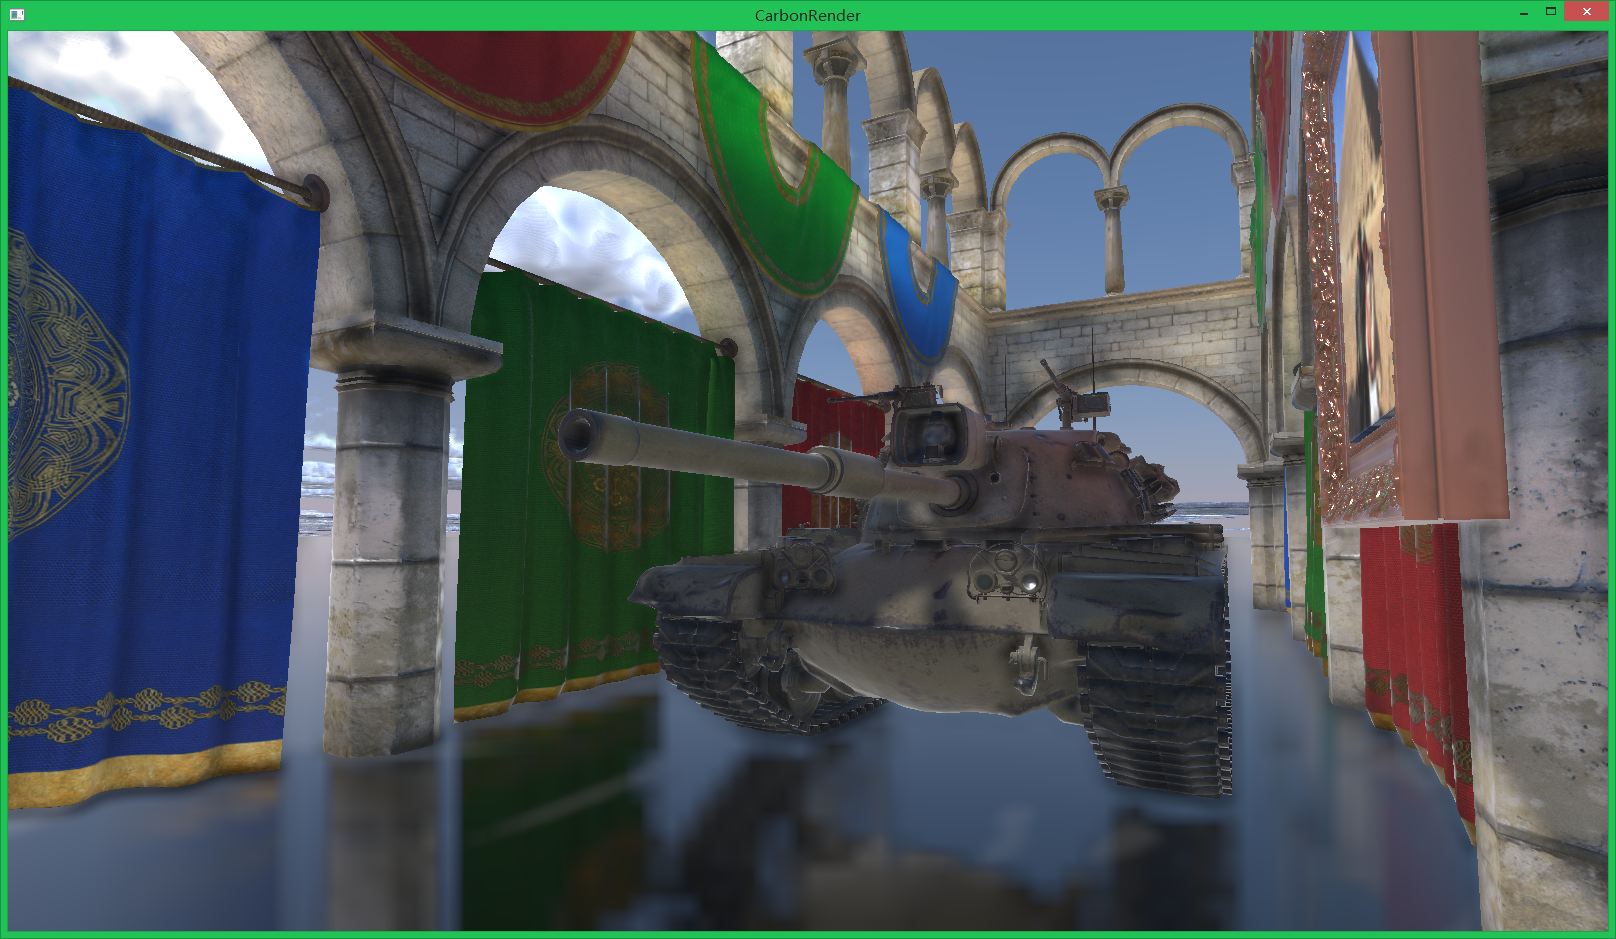
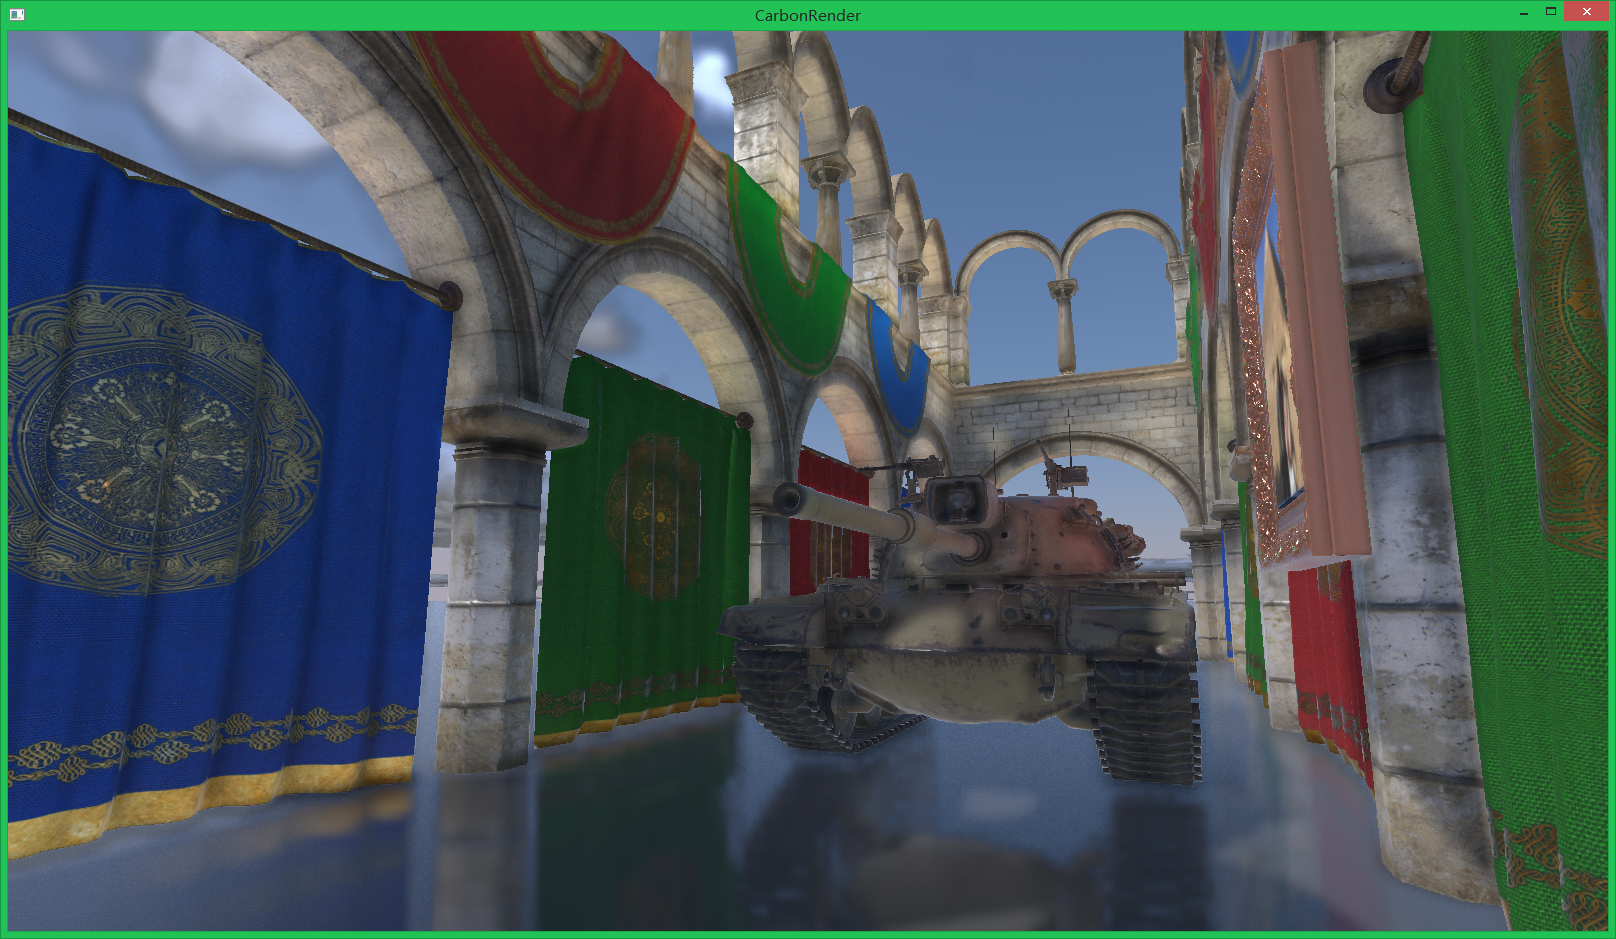
1.fix density sampling error in volumetric cloud 2.use cone tracing to calculate cube in PBR

diff --git a/CarbonRender/Src/CRLightPass.cpp b/CarbonRender/Src/CRLightPass.cpp
@@ -51,14 +51,11 @@ void LightPass::Render(PassOutput * input)
 	location = glGetUniformLocation(shaderProgram, "cubeMap");
 	glUniform1i(location, input->cout);
 	
-	float4 zColor = WeatherSystem::Instance()->GetSkyUpColor();
-	float4 sColor = WeatherSystem::Instance()->GetSunColor();
+	float4 sColor = WeatherSystem::Instance()->GetSunColor() * 3.0f;
 	float3 wsSunPos = WeatherSystem::Instance()->GetWsSunPos();
 	float3 wsCamPos = CameraManager::Instance()->GetCurrentCamera()->GetPosition();
-	location = glGetUniformLocation(shaderProgram, "zenithColor");
-	glUniform4f(location, zColor.x, zColor.y, zColor.z, zColor.w);
 	location = glGetUniformLocation(shaderProgram, "sunColor");
-	glUniform4f(location, sColor.x, sColor.y, sColor.z, sColor.w);
+	glUniform3f(location, sColor.x, sColor.y, sColor.z);
 	location = glGetUniformLocation(shaderProgram, "wsSunPos");
 	glUniform3f(location, wsSunPos.x, wsSunPos.y, wsSunPos.z);
 	location = glGetUniformLocation(shaderProgram, "wsCamPos");

diff --git a/CarbonRender/Src/CRWeatherSystem.cpp b/CarbonRender/Src/CRWeatherSystem.cpp
@@ -27,7 +27,7 @@ void WeatherSystem::Init()
 	hour = 12.0f;
 	turbidity = 2.0f;
 	exposure = 30.0f;
-	timeSpeed = 10.0f;
+	timeSpeed = 15.0f;
 	lightR = 1000.0f;
 	windDir = float4(0.5f, 0.0f, 1.0f, 10.0f * timeSpeed);
 	cloudBias = float3(0.0f);
@@ -103,7 +103,7 @@ float4 WeatherSystem::GetWsSunPos()
 float4 WeatherSystem::GetSunColor()
 {
 	if (wsSunPos.y <= 0.0f)
-		return float4(0.0f, 0.0f, 0.0f, 0.0f);
+		return float4(0.002f, 0.002f, 0.002f, 0.002f);
 
 	float3 up(0.0f, 1.0f, 0.0f);
 
@@ -124,11 +124,14 @@ float4 WeatherSystem::GetSunColor()
 
 	skyColor = xyY2RGB(xyY);
 
-	return Min(skyColor * 5.0f, 1.0f);
+	return skyColor;
 }
 
 float4 WeatherSystem::GetSkyUpColor()
 {
+	if (wsSunPos.y <= 0.0f)
+		return float4(0.002f, 0.002f, 0.002f, 0.002f);
+
 	float3 vP(0.0f, 1.0f, 0.0f);
 	float3 vS = wsSunPos.normalize();
 	float vSovP = Dot(vS, vP);

diff --git a/CarbonRender/Src/CRGIPass.cpp b/CarbonRender/Src/CRGIPass.cpp
@@ -34,6 +34,7 @@ void GIPass::Render(PassOutput * input)
 	}
 
 	ShaderManager::Instance()->UseShader(shaderProgram);
+	float4 sunColor = WeatherSystem::Instance()->GetSunColor() * 50.0f;
 	GLint location = glGetUniformLocation(shaderProgram, "pMap");
 	glUniform1i(location, 1);
 	location = glGetUniformLocation(shaderProgram, "nMap");
@@ -52,6 +53,8 @@ void GIPass::Render(PassOutput * input)
 
 	location = glGetUniformLocation(shaderProgram, "stepUnit");
 	glUniform2f(location, 1.0f / size.w, 1.0f / size.h);
+	location = glGetUniformLocation(shaderProgram, "sunColor");
+	glUniform3f(location, sunColor.x, sunColor.y, sunColor.z);
 
 	DrawFullScreenQuad();
 

diff --git a/CarbonRender/Src/CRSkyRenderPass.cpp b/CarbonRender/Src/CRSkyRenderPass.cpp
@@ -7,8 +7,8 @@ void SkyRenderPass::Init()
 	sphere.GetReady4Rending();
 	sphere.SetScale(float3(10000.0f, 5000.0f, 10000.0f));
 	sphere.SetPosition(float3(0.0f));
-	sphere.SetRotation(float3(45.0f, 90.0f, 45.0f));
-	milkwayTex = 0;// TextureManager::Instance()->LoadTexture("Milkway");
+	sphere.SetRotation(float3(45.0f, 135.0f, 0.0f));
+	milkwayTex = TextureManager::Instance()->LoadTexture("Milkway");
 }
 
 void SkyRenderPass::GetReady4Render(PassOutput* input)

diff --git a/CarbonRender/Src/CRVolumetricCloudPass.cpp b/CarbonRender/Src/CRVolumetricCloudPass.cpp
@@ -7,7 +7,7 @@ void VolumetricCloudPass::GetReady4Render(PassOutput * input)
 
 	GLuint couldRt;
 	WindowSize size = WindowManager::Instance()->GetWindowSize();
-	couldRt = SetGLRenderTexture(size.w, size.h, GL_RGBA32F, GL_RGBA, GL_FLOAT, GL_COLOR_ATTACHMENT0);
+	couldRt = SetGLRenderTexture(size.w, size.h, GL_RGBA16F, GL_RGBA, GL_FLOAT, GL_COLOR_ATTACHMENT0);
 	dBuffer = SetGLDepthBuffer(size.w, size.h);
 
 	GLenum drawBuffers[1] = { GL_COLOR_ATTACHMENT0 };

diff --git a/CarbonRender/Src/CRSceneManager.cpp b/CarbonRender/Src/CRSceneManager.cpp
@@ -58,7 +58,7 @@ void SceneManager::LoadScene()
 	sponza.SetRotation(float3(0.0f, 180.0f, 0.0f));
 
 	FbxImportManager::Instance()->ImportFbxModel("M48", &tank);
-	tank.GetReady4Rending();
+	tank.GetReady4Rending(); 
 	/**/
 }
 

diff --git a/CarbonRender/Inc/CRGIPass.h b/CarbonRender/Inc/CRGIPass.h
@@ -5,6 +5,7 @@
 #include "..\Inc\CRRenderPass.h"
 #include "..\Inc\CRShaderManager.h"
 #include "..\Inc\CRWindowManager.h"
+#include "..\Inc\CRWeatherSystem.h"
 
 class GIPass : public RenderPass
 {
